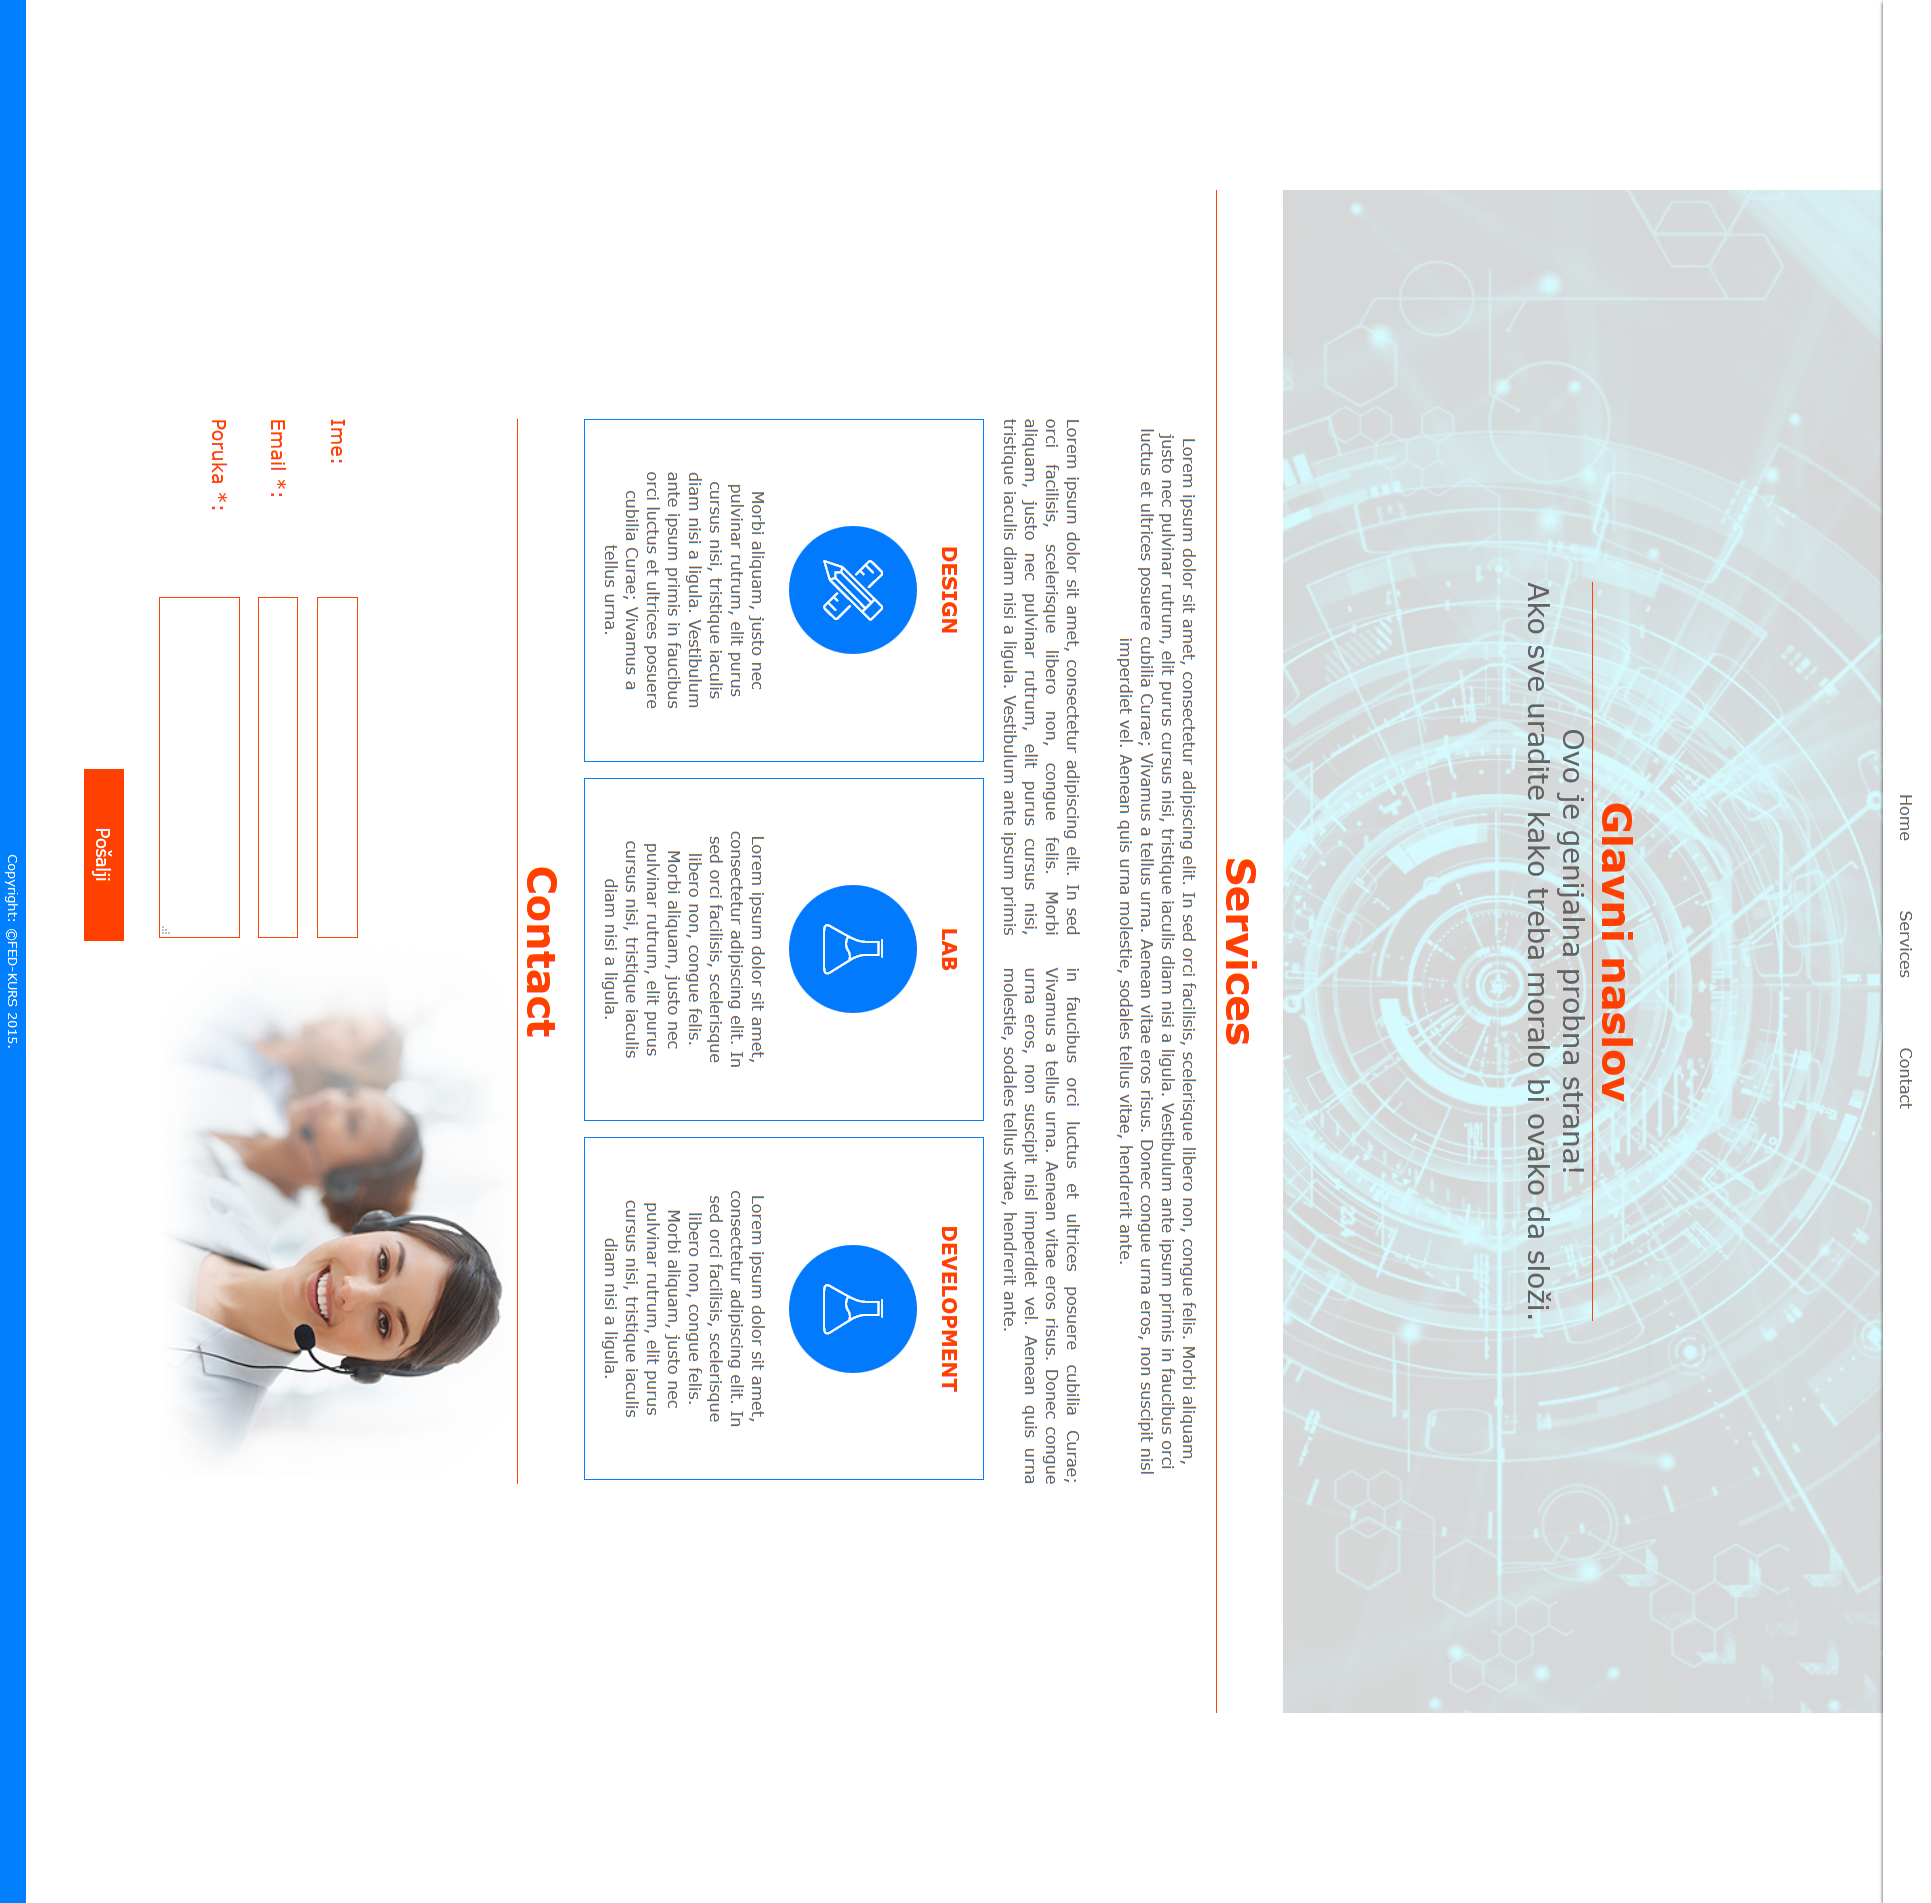
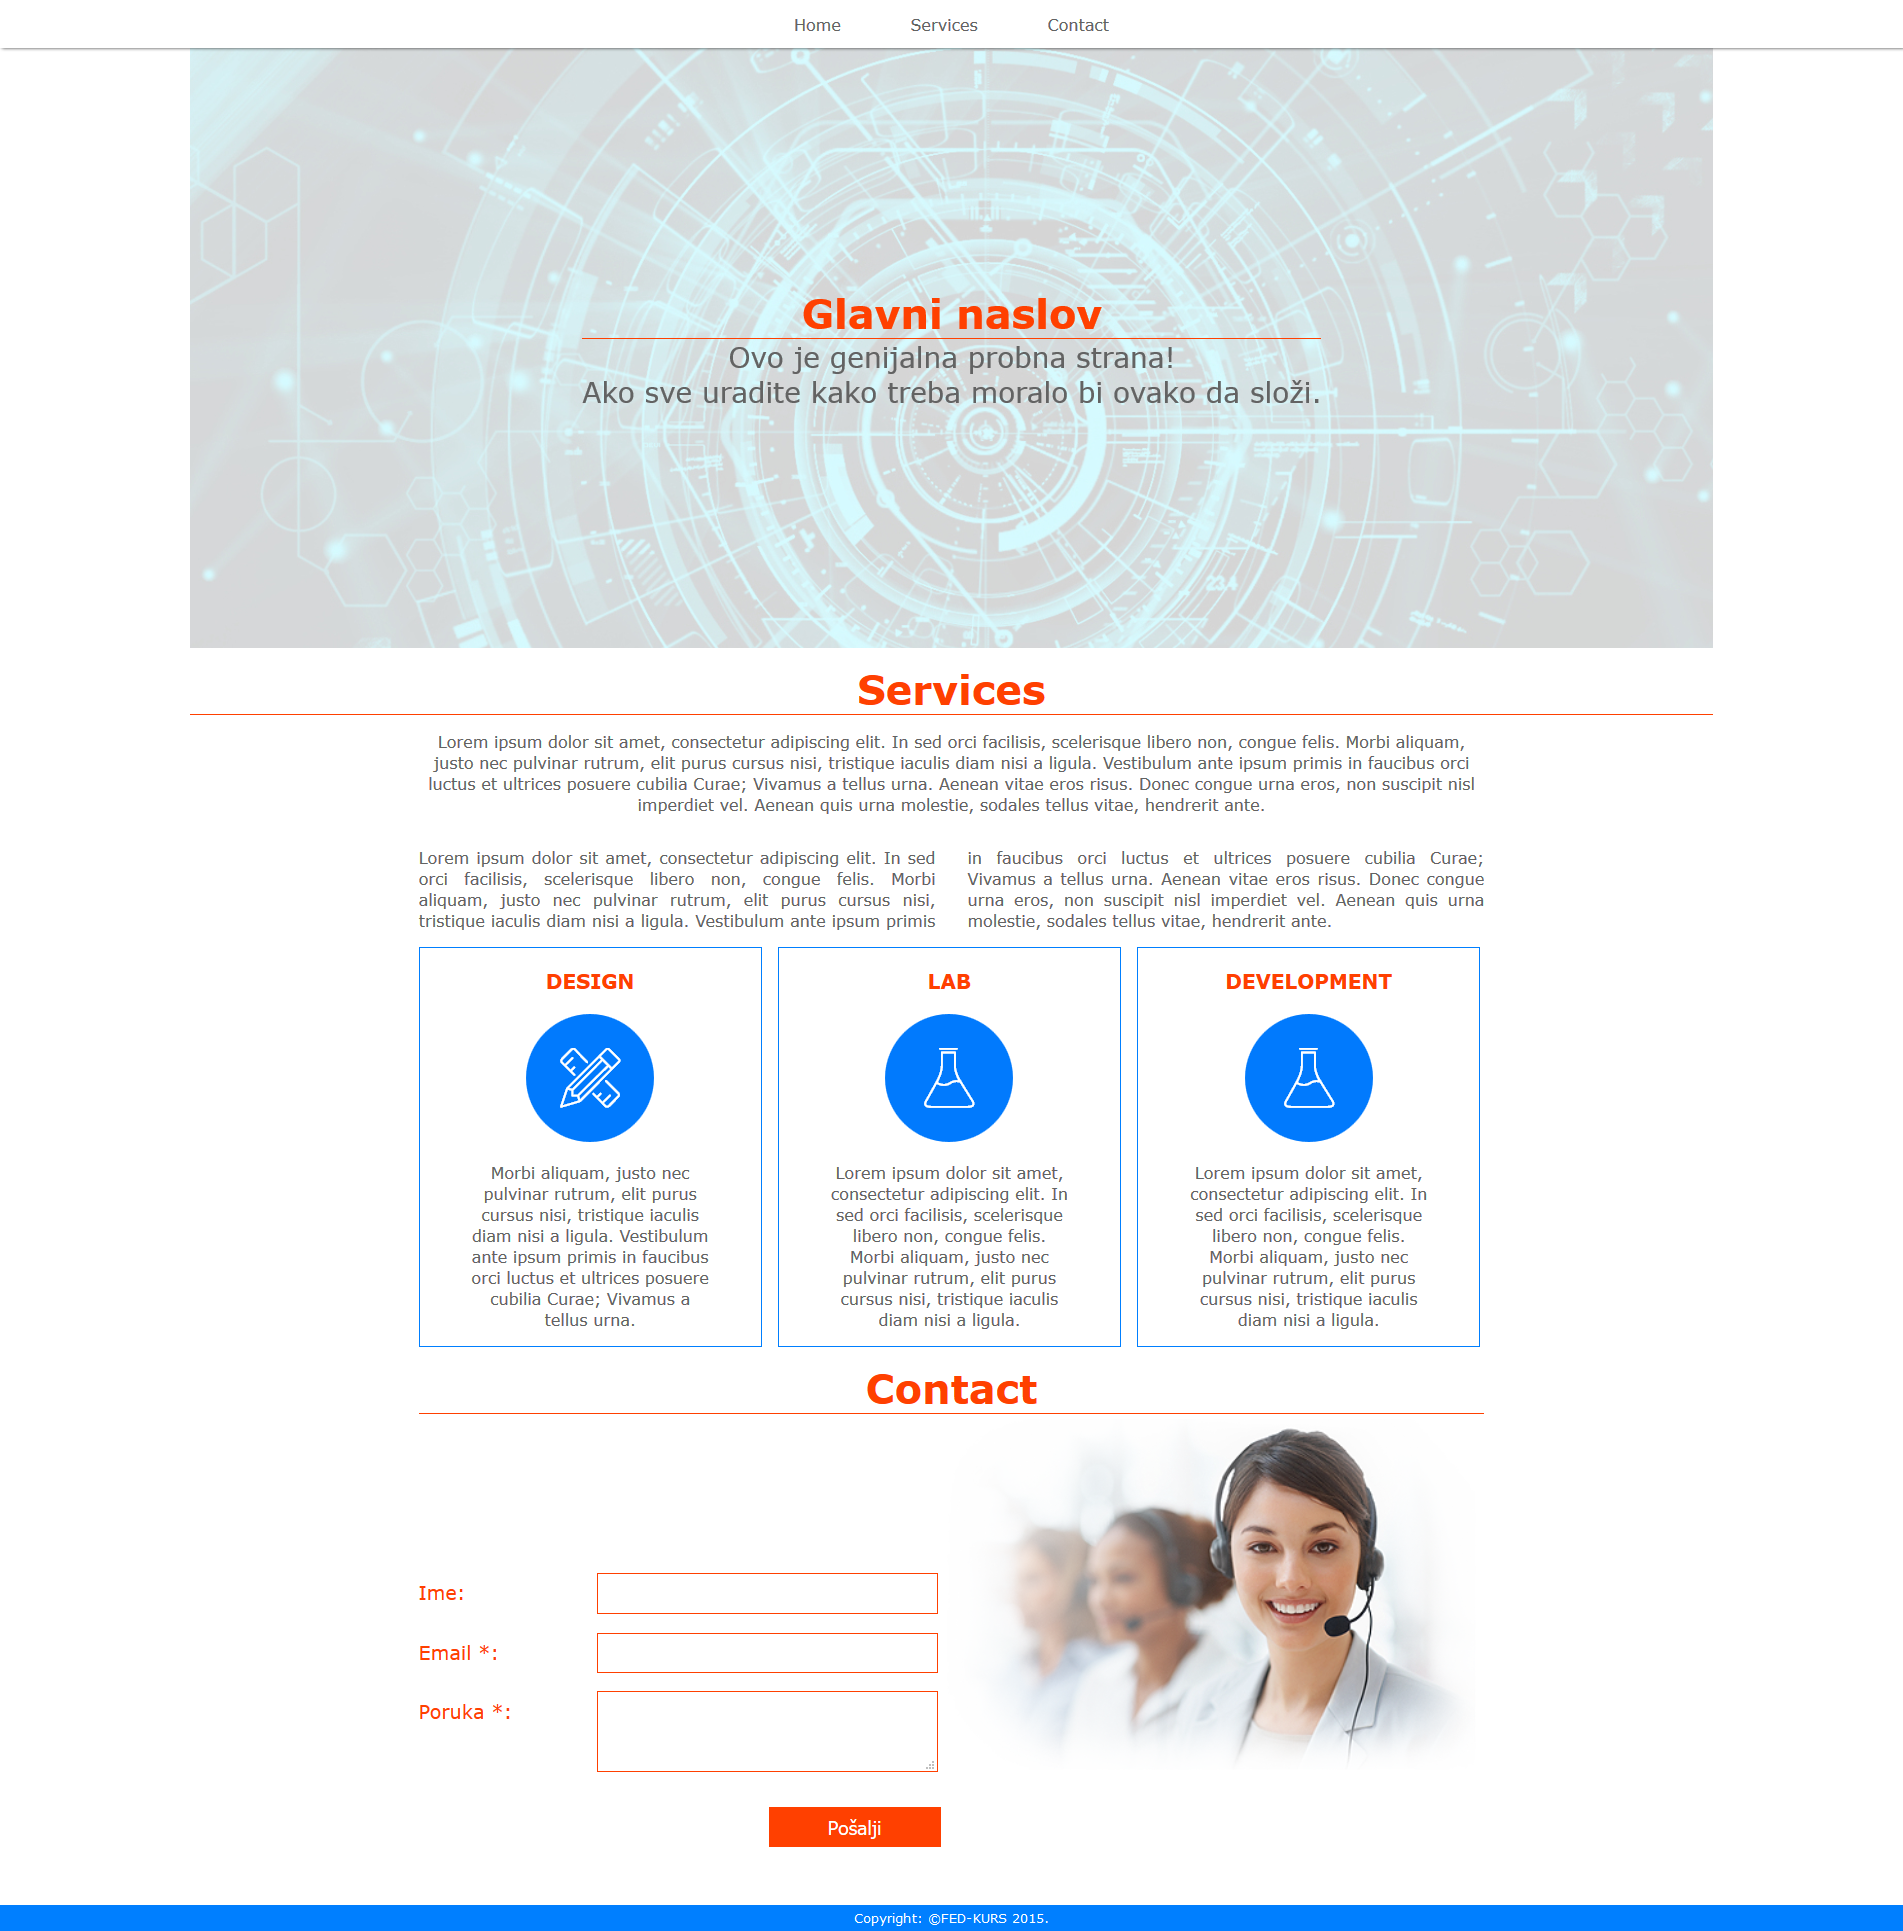
zavrsen heder i section 1

diff --git a/index.html b/index.html
@@ -1,0 +1,61 @@
+<!DOCTYPE html>
+<html>
+<head>
+	<meta charset="utf-8">
+	<meta name="viewport" content="width=device-width, initial-scale=1.0">
+	<link href="https://fonts.googleapis.com/css?family=Open+Sans:400,700i|Raleway:400,700" rel="stylesheet">
+	<link rel="stylesheet" type="text/css" href="css/style.css">
+	<title>Vezba1</title>
+</head>
+<body>
+	<header>
+		<nav>
+			<ul>
+				<li><a href="#">Home</a></li>
+				<li><a href="#services">Services</a></li>
+				<li><a href="#contact">Contact</a></li>
+			</ul>
+		</nav>
+	</header>
+	<section class="glavni">
+		<h1>Glavni naslov</h1>
+		<h2>Ovo je genijalna probna strana</h2>
+		<h2>Ako sve uradite kako treba moralo bi ovako da slozi</h2>
+	</section>
+	<section>
+		<h1 id="services">Services</h1>
+		<p>Lorem ipsum dolor sit amet, consectetur adipisicing elit. Repudiandae, culpa dolorem veritatis, incidunt nobis quae fugiat. Ex architecto illo soluta obcaecati in cumque, est voluptas earum voluptatibus aliquid sequi neque!</p>
+		<p>Lorem ipsum dolor sit amet, consectetur adipisicing elit. Repudiandae, culpa dolorem veritatis, incidunt nobis quae fugiat. Ex architecto illo soluta obcaecati in cumque, est voluptas earum voluptatibus aliquid sequi neque!</p>
+		<p>Lorem ipsum dolor sit amet, consectetur adipisicing elit. Repudiandae, culpa dolorem veritatis, incidunt nobis quae fugiat. Ex architecto illo soluta obcaecati in cumque, est voluptas earum voluptatibus aliquid sequi neque!</p>
+		<div>
+			<h2>Design</h2>
+			<img src="">
+			<p>Lorem ipsum dolor sit amet, consectetur adipisicing elit. Repudiandae, culpa dolorem veritatis, incidunt nobis quae fugiat. Ex architecto illo soluta obcaecati in cumque, est voluptas earum voluptatibus aliquid sequi neque!</p>
+		</div>
+		<div>
+			<h2>Lab</h2>
+			<img src="">
+			<p>Lorem ipsum dolor sit amet, consectetur adipisicing elit. Repudiandae, culpa dolorem veritatis, incidunt nobis quae fugiat. Ex architecto illo soluta obcaecati in cumque, est voluptas earum voluptatibus aliquid sequi neque!</p>
+		</div>
+		<div>
+			<h2>Development</h2>
+			<img src="">
+			<p>Lorem ipsum dolor sit amet, consectetur adipisicing elit. Repudiandae, culpa dolorem veritatis, incidunt nobis quae fugiat. Ex architecto illo soluta obcaecati in cumque, est voluptas earum voluptatibus aliquid sequi neque!</p>
+		</div>
+	</section>
+	<section>
+		<h1 id="contact">Contact</h1>
+		<form>
+			<label>Ime</label>
+			<input type="text" name="ime">
+			<label>Email</label>
+			<input type="text" name="email">
+			<label>Poruka</label>
+			<input type="textaria" name="poruka">
+			<button></button>
+			<img src="">
+		</form>
+	</section>
+
+</body>
+</html>

diff --git a/scss/style.scss b/scss/style.scss
@@ -1,0 +1,45 @@
+@import 'vars';
+@import 'mixins';
+
+@include main;
+
+header, footer {
+	width: 100%;
+
+}
+
+section {
+	width:80%;
+	padding: 2em 10em;
+}
+
+nav {
+	width:100%;
+	background:#fff;
+	text-align: center;
+	padding: 0.5em 0;
+	border-bottom: 1px solid skyblue;
+	ul {
+		list-style: none;
+		li {
+		display: inline-block;
+		margin-right:1em;
+			a {
+				text-decoration:none;
+				&:hover {
+					color: black;
+					background:skyblue;
+				}
+			}
+		}
+	}
+}
+
+.glavni {
+	background-image: url("../images/bkg1.jpg");
+	margin:0 auto;
+	text-align:center;
+		h1 {
+			color: red;
+		}
+}

diff --git a/scss/_mixins.scss b/scss/_mixins.scss
@@ -1,0 +1,29 @@
+@mixin main {
+	* {
+		margin: 0;
+		padding: 0;
+		box-sizing: border-box;
+		font-family: $main_font;
+		color: $main_text_color;
+	}
+}
+
+@mixin clearfix {
+	&:before, &:after {
+	    content:"";
+	    display: table;
+	}
+	&:after {
+	    clear: both;
+	}
+}
+
+@mixin tablet {
+	@media screen and (max-width: $srednji_break){
+			@content;}
+}
+
+@mixin mobilni {
+	@media screen and (max-width: $mali_break){
+			@content;}
+}

diff --git a/scss/_vars.scss b/scss/_vars.scss
@@ -1,0 +1,10 @@
+$main_font: 'Open Sans', sans-serif;
+$logo_font: 'Raleway', sans-serif;
+
+$grey_background: #f0f0f0;
+$main_text_color: #797979;
+$main_red: #ff3720;
+$red_dark: #e42b15;
+
+$srednji_break:1000px;
+$mali_break:750px;
